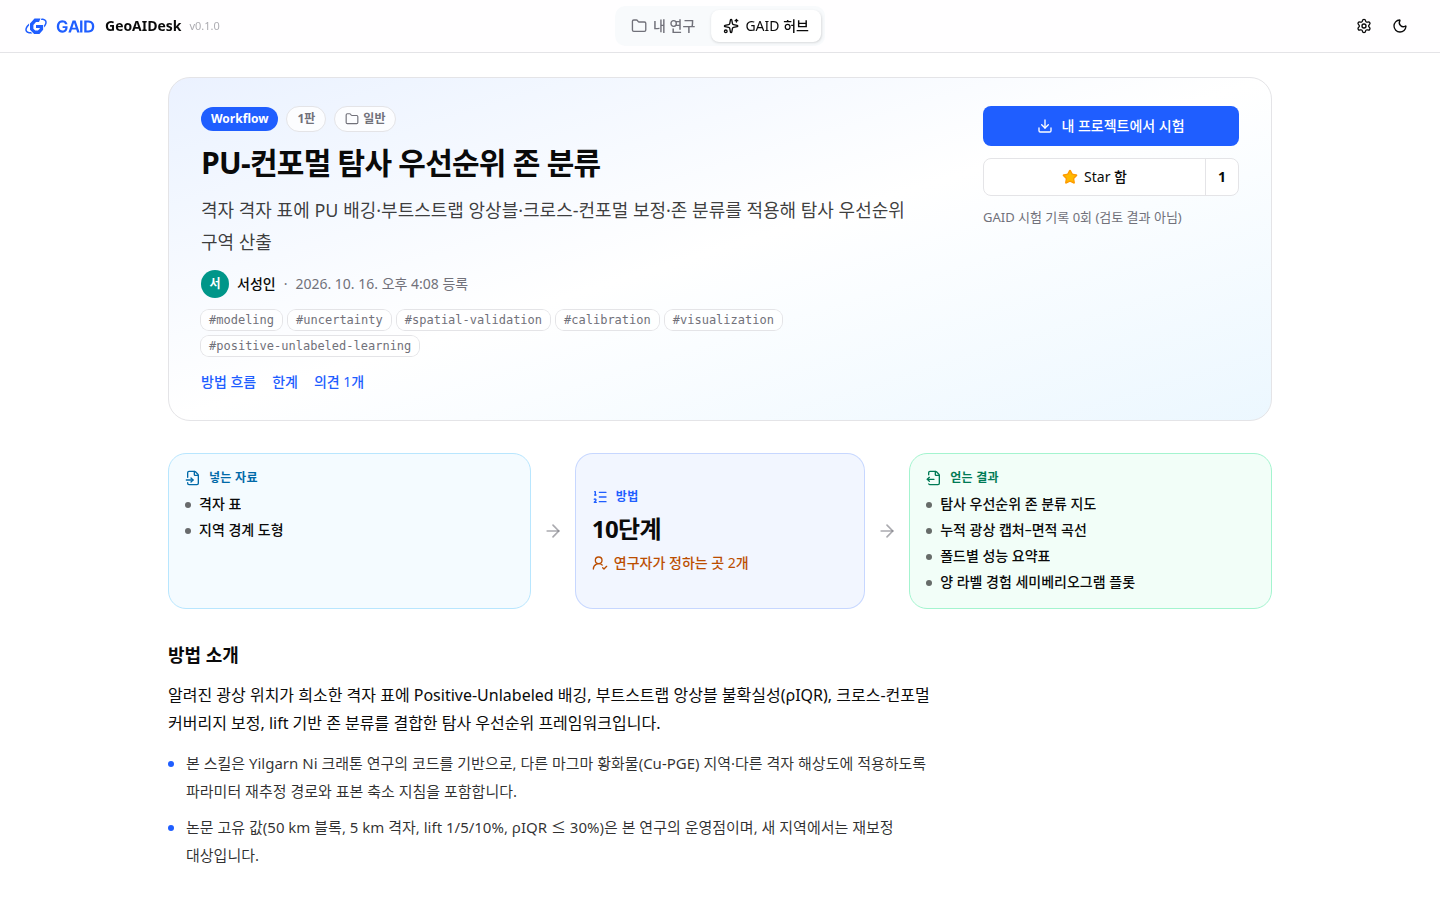
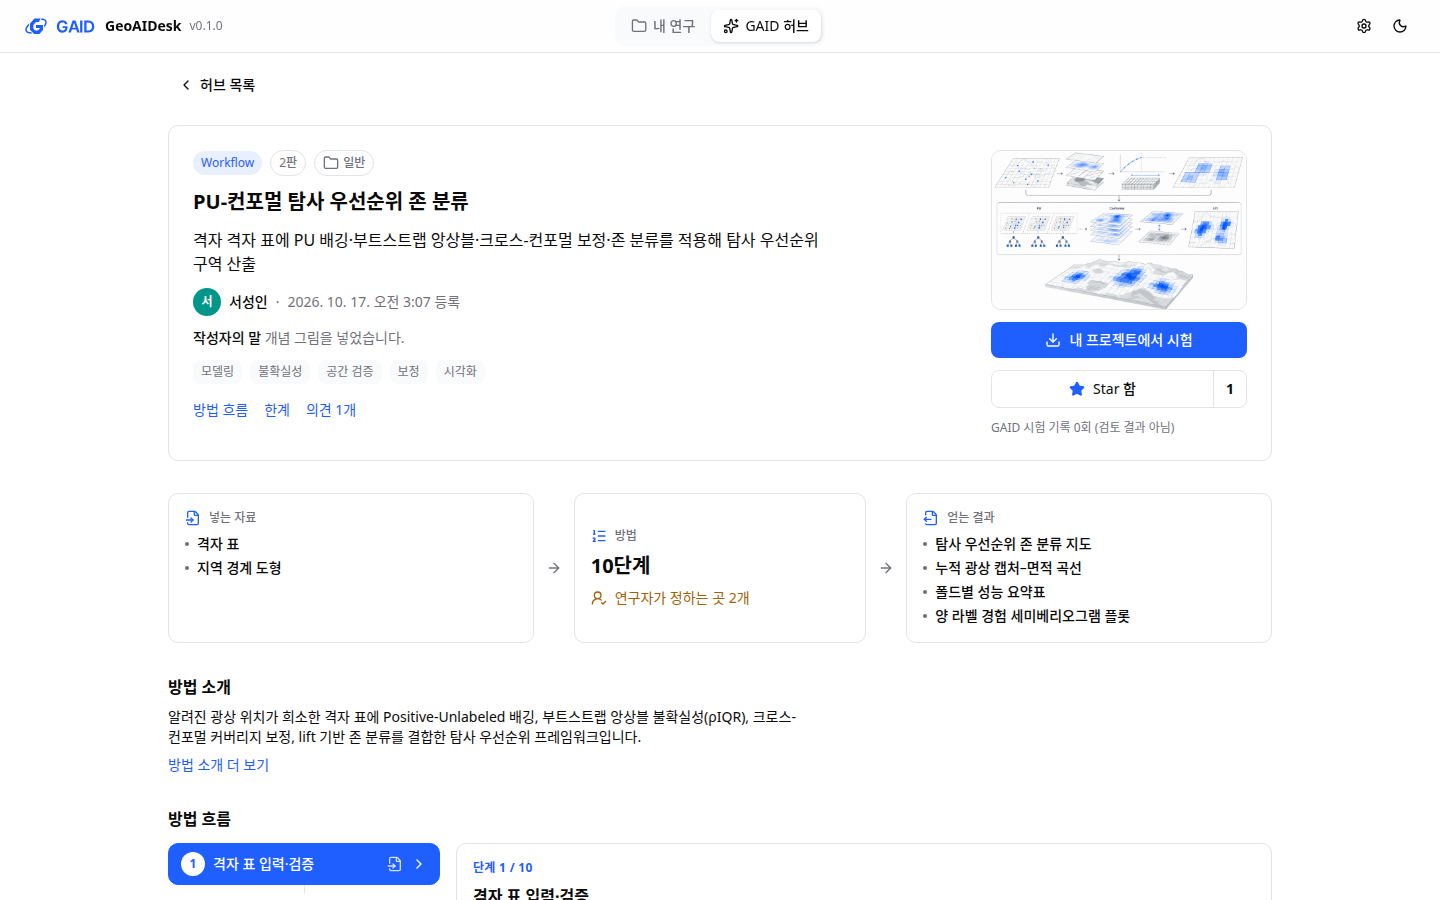
Hub type sizes per the UI guide in the draft header and project bar; report screens at 1440x900 and 1280x800

diff --git a/web/src/geo/hub/draft-step.tsx b/web/src/geo/hub/draft-step.tsx
@@ -78,14 +78,14 @@ export function DraftStep({
       <div className="flex min-h-0 flex-col gap-5 overflow-y-auto pr-1">
         <header className="flex flex-col gap-2">
           <div className="flex flex-wrap items-center gap-2">
-            <h2 className="text-2xl font-bold tracking-tight">{localText(profile.title)}</h2>
+            <h2 className="text-xl font-semibold">{localText(profile.title)}</h2>
             <Badge variant="secondary">{text("draft.private")}</Badge>
             <Badge variant="outline">
               {trialCount > 0 ? text("draft.tested", { count: trialCount }) : text("draft.untested")}
             </Badge>
             <span className="text-xs text-muted-foreground">{text("draft.revision", { n: draft.revision })}</span>
           </div>
-          <p className="max-w-3xl text-base leading-7 text-foreground/80">{localText(profile.tagline)}</p>
+          <p className="max-w-[640px] text-base">{localText(profile.tagline)}</p>
           {onRegister && (
             <div className="flex flex-wrap items-center gap-3 rounded-xl border border-primary/30 bg-primary/5 p-3">
               <Share2Icon className="size-5 text-primary" aria-hidden />

diff --git a/web/src/geo/hub/hub-shell.tsx b/web/src/geo/hub/hub-shell.tsx
@@ -82,7 +82,7 @@ export function ProjectBar({
         <ChevronLeftIcon className="size-4" aria-hidden />
         {text("home.back")}
       </button>
-      <h1 className="min-w-0 truncate text-lg font-semibold">{title}</h1>
+      <h1 className="min-w-0 truncate text-base font-semibold">{title}</h1>
       <nav aria-label={text("steps.label")} className="ml-auto flex items-center gap-1">
         {steps.map((s, i) => {
           const enabled = reached.includes(s);

diff --git a/docs/tasks/gaid-hub.md b/docs/tasks/gaid-hub.md
@@ -1,7 +1,7 @@
 ---
 format: 1
 status: active
-updated: 2026-10-16T18:42:26Z
+updated: 2026-10-16T18:44:17Z
[1 lines of base64/hex data omitted]
 branch: task/gaid-hub
 target: main
